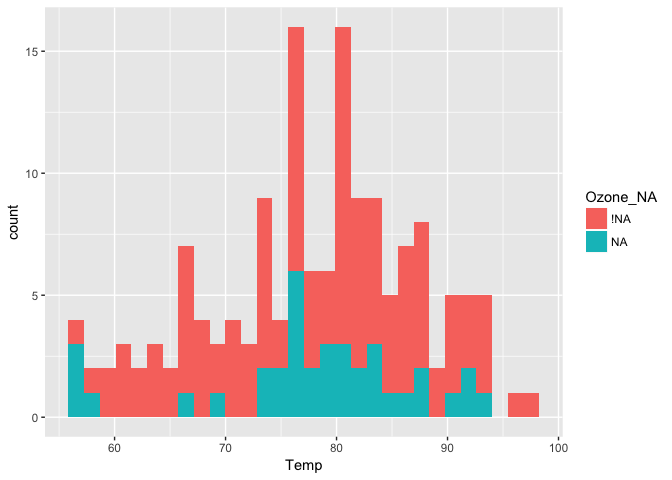
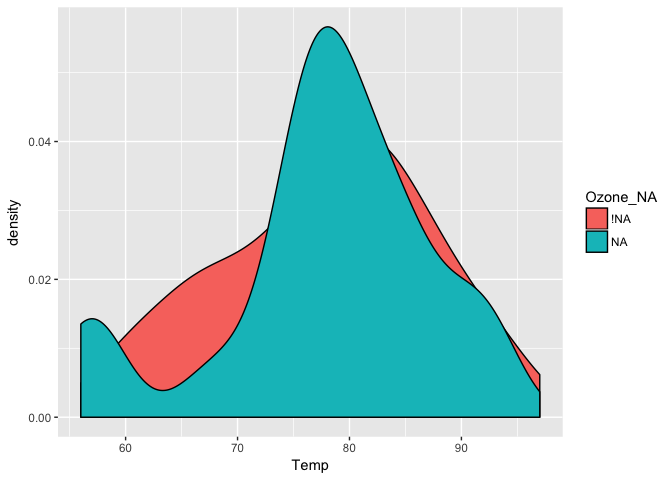
update README and pkgdown docs

diff --git a/docs/index.html b/docs/index.html
@@ -92,7 +92,7 @@
 <li>Visualisation methods: e.g., <code><a href="reference/geom_miss_point.html">geom_miss_point()</a></code>, <code><a href="reference/gg_miss_var.html">gg_miss_var()</a></code>,</li>
 </ul>
 <p>For more details on the workflow and theory underpinning naniar, read the vignette <a href="http://naniar.njtierney.com/articles/getting-started-w-naniar.html">“Getting started with naniar”</a>.</p>
-<p>For a short primer on the data visualisation techniques, read the vignette <a href="http://naniar.njtierney.com/articles/naniar-visualisation.html">Gallery of missing data visualisations using naniar</a>.</p>
+<p>For a short primer on the data visualisation available in naniar, read the vignette <a href="http://naniar.njtierney.com/articles/naniar-visualisation.html">Gallery of missing data visualisations using naniar</a>.</p>
 </div>
 <div id="installation" class="section level1">
 <h1 class="hasAnchor">
@@ -101,9 +101,9 @@
 <div class="sourceCode"><pre class="sourceCode r"><code class="sourceCode r"><span class="co"># install.packages("devtools")</span>
 devtools<span class="op">::</span><span class="kw"><a href="http://www.rdocumentation.org/packages/devtools/topics/install_github">install_github</a></span>(<span class="st">"njtierney/naniar"</span>)</code></pre></div>
 </div>
-<div id="visualisating-missing-data" class="section level1">
+<div id="a-short-overview-of-naniar" class="section level1">
 <h1 class="hasAnchor">
-<a href="#visualisating-missing-data" class="anchor"></a>Visualisating missing data?</h1>
+<a href="#a-short-overview-of-naniar" class="anchor"></a>A short overview of naniar</h1>
 <p>Visualising missing data might sound a little strange - how do you visualise something that is not there? One approach to visualising missing data comes from ggobi and manet, where we replace “NA” values with values 10% lower than the minimum value in that variable. This is provided with the <code><a href="reference/geom_miss_point.html">geom_miss_point()</a></code> ggplot2 geom, which we can illustrate by exploring the relationship between Ozone and Solar radiation from the airquality dataset.</p>
 <div class="sourceCode"><pre class="sourceCode r"><code class="sourceCode r">
 <span class="kw">library</span>(ggplot2)
@@ -172,8 +172,7 @@ airquality <span class="op">%&gt;%</span>
 <span class="st">  </span><span class="kw"><a href="reference/bind_shadow.html">bind_shadow</a></span>() <span class="op">%&gt;%</span>
 <span class="st">  </span><span class="kw"><a href="http://www.rdocumentation.org/packages/ggplot2/topics/ggplot">ggplot</a></span>(<span class="kw"><a href="http://www.rdocumentation.org/packages/ggplot2/topics/aes">aes</a></span>(<span class="dt">x =</span> Temp,
              <span class="dt">fill =</span> Ozone_NA)) <span class="op">+</span><span class="st"> </span>
-<span class="st">  </span><span class="kw"><a href="http://www.rdocumentation.org/packages/ggplot2/topics/geom_histogram">geom_histogram</a></span>()
-<span class="co">#&gt; `stat_bin()` using `bins = 30`. Pick better value with `binwidth`.</span></code></pre></div>
+<span class="st">  </span><span class="kw"><a href="http://www.rdocumentation.org/packages/ggplot2/topics/geom_density">geom_density</a></span>()</code></pre></div>
 <p><img src="README-figs/README-unnamed-chunk-3-1.png" width="672"></p>
 <p>And even visualise imputations</p>
 <div class="sourceCode"><pre class="sourceCode r"><code class="sourceCode r">
@@ -290,7 +289,7 @@ airquality <span class="op">%&gt;%</span>
 <div id="acknowledgements" class="section level2">
 <h2 class="hasAnchor">
 <a href="#acknowledgements" class="anchor"></a>Acknowledgements</h2>
-<p>Firstly, thanks to Di Cook for giving the initial inspiration for the package and laying down the rich theory and literature that the work in naniar is built upon. Naming credit (once again!) goes to Miles McBain. Among various other things, Miles also worked out how to overload the missing data and make it work as a geom. Thanks also to Colin Fay for helping me understand tidy evaluation and for features such as <code>replace_to_na</code>, <code>miss_*_cumsum</code>, and more.</p>
+<p>Firstly, thanks to <a href="https://github.com/dicook">Di Cook</a> for giving the initial inspiration for the package and laying down the rich theory and literature that the work in naniar is built upon. Naming credit (once again!) goes to <a href="https://github.com/milesmcbain">Miles McBain</a>. Among various other things, Miles also worked out how to overload the missing data and make it work as a geom. Thanks also to <a href="https://github.com/ColinFay">Colin Fay</a> for helping me understand tidy evaluation and for features such as <code>replace_to_na</code>, <code>miss_*_cumsum</code>, and more.</p>
 </div>
 <div id="a-note-on-the-name" class="section level2">
 <h2 class="hasAnchor">

diff --git a/docs/reference/gg_miss_span.html b/docs/reference/gg_miss_span.html
@@ -150,8 +150,8 @@ is used, which can be customised as normal for ggplot.</p>
 #&gt; 11           11      0       3000 0.0000000000     1.0000000
 #&gt; 12           12    745       2255 0.2483333333     0.7516667
 #&gt; 13           13    432       2568 0.1440000000     0.8560000</div><div class='input'><span class='fu'>library</span>(<span class='no'>ggplot2</span>)
-<span class='fu'>gg_miss_span</span>(<span class='no'>pedestrian</span>, <span class='no'>hourly_counts</span>, <span class='kw'>span_every</span> <span class='kw'>=</span> <span class='fl'>3000</span>)</div><div class='img'><img src='gg_miss_span-4.png' alt='' width='700' height='432.632880098887' /></div><div class='input'><span class='co'># works with the rest of ggplot</span>
-<span class='fu'>gg_miss_span</span>(<span class='no'>pedestrian</span>, <span class='no'>hourly_counts</span>, <span class='kw'>span_every</span> <span class='kw'>=</span> <span class='fl'>3000</span>) + <span class='fu'><a href='http://www.rdocumentation.org/packages/ggplot2/topics/labs'>labs</a></span>(<span class='kw'>x</span> <span class='kw'>=</span> <span class='st'>"custom"</span>)</div><div class='img'><img src='gg_miss_span-5.png' alt='' width='700' height='432.632880098887' /></div><div class='input'><span class='fu'>gg_miss_span</span>(<span class='no'>pedestrian</span>, <span class='no'>hourly_counts</span>, <span class='kw'>span_every</span> <span class='kw'>=</span> <span class='fl'>3000</span>) + <span class='fu'><a href='http://www.rdocumentation.org/packages/ggplot2/topics/ggtheme'>theme_dark</a></span>()</div><div class='img'><img src='gg_miss_span-6.png' alt='' width='700' height='432.632880098887' /></div></pre>
+<span class='fu'>gg_miss_span</span>(<span class='no'>pedestrian</span>, <span class='no'>hourly_counts</span>, <span class='kw'>span_every</span> <span class='kw'>=</span> <span class='fl'>3000</span>)</div><div class='img'><img src='gg_miss_span-1.png' alt='' width='700' height='432.632880098887' /></div><div class='input'><span class='co'># works with the rest of ggplot</span>
+<span class='fu'>gg_miss_span</span>(<span class='no'>pedestrian</span>, <span class='no'>hourly_counts</span>, <span class='kw'>span_every</span> <span class='kw'>=</span> <span class='fl'>3000</span>) + <span class='fu'><a href='http://www.rdocumentation.org/packages/ggplot2/topics/labs'>labs</a></span>(<span class='kw'>x</span> <span class='kw'>=</span> <span class='st'>"custom"</span>)</div><div class='img'><img src='gg_miss_span-2.png' alt='' width='700' height='432.632880098887' /></div><div class='input'><span class='fu'>gg_miss_span</span>(<span class='no'>pedestrian</span>, <span class='no'>hourly_counts</span>, <span class='kw'>span_every</span> <span class='kw'>=</span> <span class='fl'>3000</span>) + <span class='fu'><a href='http://www.rdocumentation.org/packages/ggplot2/topics/ggtheme'>theme_dark</a></span>()</div><div class='img'><img src='gg_miss_span-3.png' alt='' width='700' height='432.632880098887' /></div></pre>
   </div>
   <div class="col-md-3 hidden-xs hidden-sm" id="sidebar">
     <h2>Contents</h2>

diff --git a/docs/reference/miss_var_run.html b/docs/reference/miss_var_run.html
@@ -173,12 +173,12 @@ the length of the run, and whether that run describes a missing value.</p>
   <span class='fu'><a href='http://dplyr.tidyverse.org/reference/tally.html'>count</a></span>(<span class='no'>run_length</span>) <span class='kw'>%&gt;%</span>
   <span class='fu'><a href='http://www.rdocumentation.org/packages/ggplot2/topics/ggplot'>ggplot</a></span>(<span class='fu'><a href='http://www.rdocumentation.org/packages/ggplot2/topics/aes'>aes</a></span>(<span class='kw'>x</span> <span class='kw'>=</span> <span class='no'>run_length</span>,
              <span class='kw'>y</span> <span class='kw'>=</span> <span class='no'>n</span>)) +
-      <span class='fu'><a href='http://www.rdocumentation.org/packages/ggplot2/topics/geom_bar'>geom_col</a></span>()</div><div class='img'><img src='miss_var_run-3.png' alt='' width='700' height='432.632880098887' /></div><div class='input'>
+      <span class='fu'><a href='http://www.rdocumentation.org/packages/ggplot2/topics/geom_bar'>geom_col</a></span>()</div><div class='img'><img src='miss_var_run-1.png' alt='' width='700' height='432.632880098887' /></div><div class='input'>
 <span class='co'># look at the number of missing values and the run length of these.</span>
 <span class='fu'>miss_var_run</span>(<span class='no'>pedestrian</span>, <span class='no'>hourly_counts</span>) <span class='kw'>%&gt;%</span>
   <span class='fu'><a href='http://www.rdocumentation.org/packages/ggplot2/topics/ggplot'>ggplot</a></span>(<span class='fu'><a href='http://www.rdocumentation.org/packages/ggplot2/topics/aes'>aes</a></span>(<span class='kw'>x</span> <span class='kw'>=</span> <span class='no'>is_na</span>,
              <span class='kw'>y</span> <span class='kw'>=</span> <span class='no'>run_length</span>)) +
-      <span class='fu'><a href='http://www.rdocumentation.org/packages/ggplot2/topics/geom_boxplot'>geom_boxplot</a></span>()</div><div class='img'><img src='miss_var_run-4.png' alt='' width='700' height='432.632880098887' /></div><div class='input'>
+      <span class='fu'><a href='http://www.rdocumentation.org/packages/ggplot2/topics/geom_boxplot'>geom_boxplot</a></span>()</div><div class='img'><img src='miss_var_run-2.png' alt='' width='700' height='432.632880098887' /></div><div class='input'>
 <span class='co'># using group_by</span>
  <span class='no'>pedestrian</span> <span class='kw'>%&gt;%</span>
    <span class='fu'><a href='http://dplyr.tidyverse.org/reference/group_by.html'>group_by</a></span>(<span class='no'>month</span>) <span class='kw'>%&gt;%</span>

diff --git a/docs/reference/gg_miss_fct.html b/docs/reference/gg_miss_fct.html
@@ -129,8 +129,8 @@ theme is used, which can be customised as normal for ggplot.</p>
 
     <h2 class="hasAnchor" id="examples"><a class="anchor" href="#examples"></a>Examples</h2>
     <pre class="examples"><div class='input'>
-<span class='fu'>gg_miss_fct</span>(<span class='kw'>x</span> <span class='kw'>=</span> <span class='no'>riskfactors</span>, <span class='kw'>fct</span> <span class='kw'>=</span> <span class='no'>marital</span>)</div><div class='img'><img src='gg_miss_fct-3.png' alt='' width='700' height='432.632880098887' /></div><div class='input'><span class='fu'>library</span>(<span class='no'>ggplot2</span>)
-<span class='fu'>gg_miss_fct</span>(<span class='kw'>x</span> <span class='kw'>=</span> <span class='no'>riskfactors</span>, <span class='kw'>fct</span> <span class='kw'>=</span> <span class='no'>marital</span>) + <span class='fu'><a href='http://www.rdocumentation.org/packages/ggplot2/topics/labs'>labs</a></span>(<span class='kw'>title</span> <span class='kw'>=</span> <span class='st'>"NA in Risk Factors and Marital status"</span>)</div><div class='img'><img src='gg_miss_fct-4.png' alt='' width='700' height='432.632880098887' /></div><div class='input'>
+<span class='fu'>gg_miss_fct</span>(<span class='kw'>x</span> <span class='kw'>=</span> <span class='no'>riskfactors</span>, <span class='kw'>fct</span> <span class='kw'>=</span> <span class='no'>marital</span>)</div><div class='img'><img src='gg_miss_fct-1.png' alt='' width='700' height='432.632880098887' /></div><div class='input'><span class='fu'>library</span>(<span class='no'>ggplot2</span>)
+<span class='fu'>gg_miss_fct</span>(<span class='kw'>x</span> <span class='kw'>=</span> <span class='no'>riskfactors</span>, <span class='kw'>fct</span> <span class='kw'>=</span> <span class='no'>marital</span>) + <span class='fu'><a href='http://www.rdocumentation.org/packages/ggplot2/topics/labs'>labs</a></span>(<span class='kw'>title</span> <span class='kw'>=</span> <span class='st'>"NA in Risk Factors and Marital status"</span>)</div><div class='img'><img src='gg_miss_fct-2.png' alt='' width='700' height='432.632880098887' /></div><div class='input'>
 </div></pre>
   </div>
   <div class="col-md-3 hidden-xs hidden-sm" id="sidebar">

diff --git a/docs/reference/geom_miss_point.html b/docs/reference/geom_miss_point.html
@@ -185,12 +185,12 @@ same axis.</p>
 <span class='fu'><a href='http://www.rdocumentation.org/packages/ggplot2/topics/ggplot'>ggplot</a></span>(<span class='no'>airquality</span>,
        <span class='fu'><a href='http://www.rdocumentation.org/packages/ggplot2/topics/aes'>aes</a></span>(<span class='kw'>x</span> <span class='kw'>=</span> <span class='no'>Ozone</span>,
            <span class='kw'>y</span> <span class='kw'>=</span> <span class='no'>Solar.R</span>)) +
-<span class='fu'><a href='http://www.rdocumentation.org/packages/ggplot2/topics/geom_point'>geom_point</a></span>()</div><div class='output co'>#&gt; <span class='warning'>Warning: Removed 42 rows containing missing values (geom_point).</span></div><div class='img'><img src='geom_miss_point-3.png' alt='' width='700' height='432.632880098887' /></div><div class='input'>
+<span class='fu'><a href='http://www.rdocumentation.org/packages/ggplot2/topics/geom_point'>geom_point</a></span>()</div><div class='output co'>#&gt; <span class='warning'>Warning: Removed 42 rows containing missing values (geom_point).</span></div><div class='img'><img src='geom_miss_point-1.png' alt='' width='700' height='432.632880098887' /></div><div class='input'>
 <span class='co'># using  geom_miss_point()</span>
 <span class='fu'><a href='http://www.rdocumentation.org/packages/ggplot2/topics/ggplot'>ggplot</a></span>(<span class='no'>airquality</span>,
        <span class='fu'><a href='http://www.rdocumentation.org/packages/ggplot2/topics/aes'>aes</a></span>(<span class='kw'>x</span> <span class='kw'>=</span> <span class='no'>Ozone</span>,
            <span class='kw'>y</span> <span class='kw'>=</span> <span class='no'>Solar.R</span>)) +
- <span class='fu'>geom_miss_point</span>()</div><div class='img'><img src='geom_miss_point-4.png' alt='' width='700' height='432.632880098887' /></div><div class='input'>
+ <span class='fu'>geom_miss_point</span>()</div><div class='img'><img src='geom_miss_point-2.png' alt='' width='700' height='432.632880098887' /></div><div class='input'>
 </div></pre>
   </div>
   <div class="col-md-3 hidden-xs hidden-sm" id="sidebar">

diff --git a/docs/reference/gg_miss_case_cumsum.html b/docs/reference/gg_miss_case_cumsum.html
@@ -129,8 +129,8 @@ customised as normal for ggplot.</p>
 
     <h2 class="hasAnchor" id="examples"><a class="anchor" href="#examples"></a>Examples</h2>
     <pre class="examples"><div class='input'>
-<span class='fu'>gg_miss_case_cumsum</span>(<span class='no'>airquality</span>)</div><div class='img'><img src='gg_miss_case_cumsum-3.png' alt='' width='700' height='432.632880098887' /></div><div class='input'><span class='fu'>library</span>(<span class='no'>ggplot2</span>)
-<span class='fu'>gg_miss_case_cumsum</span>(<span class='no'>riskfactors</span>, <span class='kw'>breaks</span> <span class='kw'>=</span> <span class='fl'>50</span>) + <span class='fu'><a href='http://www.rdocumentation.org/packages/ggplot2/topics/ggtheme'>theme_bw</a></span>()</div><div class='img'><img src='gg_miss_case_cumsum-4.png' alt='' width='700' height='432.632880098887' /></div></pre>
+<span class='fu'>gg_miss_case_cumsum</span>(<span class='no'>airquality</span>)</div><div class='img'><img src='gg_miss_case_cumsum-1.png' alt='' width='700' height='432.632880098887' /></div><div class='input'><span class='fu'>library</span>(<span class='no'>ggplot2</span>)
+<span class='fu'>gg_miss_case_cumsum</span>(<span class='no'>riskfactors</span>, <span class='kw'>breaks</span> <span class='kw'>=</span> <span class='fl'>50</span>) + <span class='fu'><a href='http://www.rdocumentation.org/packages/ggplot2/topics/ggtheme'>theme_bw</a></span>()</div><div class='img'><img src='gg_miss_case_cumsum-2.png' alt='' width='700' height='432.632880098887' /></div></pre>
   </div>
   <div class="col-md-3 hidden-xs hidden-sm" id="sidebar">
     <h2>Contents</h2>

diff --git a/docs/reference/gg_miss_var.html b/docs/reference/gg_miss_var.html
@@ -126,8 +126,8 @@ customised as normal for ggplot.</p>
 
     <h2 class="hasAnchor" id="examples"><a class="anchor" href="#examples"></a>Examples</h2>
     <pre class="examples"><div class='input'>
-<span class='fu'>gg_miss_var</span>(<span class='no'>airquality</span>)</div><div class='img'><img src='gg_miss_var-3.png' alt='' width='700' height='432.632880098887' /></div><div class='input'><span class='fu'>library</span>(<span class='no'>ggplot2</span>)
-<span class='fu'>gg_miss_var</span>(<span class='no'>airquality</span>) + <span class='fu'><a href='http://www.rdocumentation.org/packages/ggplot2/topics/labs'>labs</a></span>(<span class='kw'>y</span> <span class='kw'>=</span> <span class='st'>"Look at all the missing ones"</span>)</div><div class='img'><img src='gg_miss_var-4.png' alt='' width='700' height='432.632880098887' /></div><div class='input'>
+<span class='fu'>gg_miss_var</span>(<span class='no'>airquality</span>)</div><div class='img'><img src='gg_miss_var-1.png' alt='' width='700' height='432.632880098887' /></div><div class='input'><span class='fu'>library</span>(<span class='no'>ggplot2</span>)
+<span class='fu'>gg_miss_var</span>(<span class='no'>airquality</span>) + <span class='fu'><a href='http://www.rdocumentation.org/packages/ggplot2/topics/labs'>labs</a></span>(<span class='kw'>y</span> <span class='kw'>=</span> <span class='st'>"Look at all the missing ones"</span>)</div><div class='img'><img src='gg_miss_var-2.png' alt='' width='700' height='432.632880098887' /></div><div class='input'>
 </div></pre>
   </div>
   <div class="col-md-3 hidden-xs hidden-sm" id="sidebar">

diff --git a/docs/reference/gg_miss_case.html b/docs/reference/gg_miss_case.html
@@ -125,8 +125,8 @@ can be customised as normal for ggplot.</p>
 
     <h2 class="hasAnchor" id="examples"><a class="anchor" href="#examples"></a>Examples</h2>
     <pre class="examples"><div class='input'>
-<span class='fu'>gg_miss_case</span>(<span class='no'>airquality</span>)</div><div class='img'><img src='gg_miss_case-3.png' alt='' width='700' height='432.632880098887' /></div><div class='input'><span class='fu'>library</span>(<span class='no'>ggplot2</span>)
-<span class='fu'>gg_miss_case</span>(<span class='no'>airquality</span>) + <span class='fu'><a href='http://www.rdocumentation.org/packages/ggplot2/topics/labs'>labs</a></span>(<span class='kw'>x</span> <span class='kw'>=</span> <span class='st'>"Number of Cases"</span>)</div><div class='img'><img src='gg_miss_case-4.png' alt='' width='700' height='432.632880098887' /></div><div class='input'>
+<span class='fu'>gg_miss_case</span>(<span class='no'>airquality</span>)</div><div class='img'><img src='gg_miss_case-1.png' alt='' width='700' height='432.632880098887' /></div><div class='input'><span class='fu'>library</span>(<span class='no'>ggplot2</span>)
+<span class='fu'>gg_miss_case</span>(<span class='no'>airquality</span>) + <span class='fu'><a href='http://www.rdocumentation.org/packages/ggplot2/topics/labs'>labs</a></span>(<span class='kw'>x</span> <span class='kw'>=</span> <span class='st'>"Number of Cases"</span>)</div><div class='img'><img src='gg_miss_case-2.png' alt='' width='700' height='432.632880098887' /></div><div class='input'>
 </div></pre>
   </div>
   <div class="col-md-3 hidden-xs hidden-sm" id="sidebar">

diff --git a/docs/reference/bind_shadow.html b/docs/reference/bind_shadow.html
@@ -135,7 +135,7 @@ missing data.</p>
        <span class='fu'><a href='http://www.rdocumentation.org/packages/ggplot2/topics/aes'>aes</a></span>(<span class='kw'>x</span> <span class='kw'>=</span> <span class='no'>Ozone</span>)) +
        <span class='fu'><a href='http://www.rdocumentation.org/packages/ggplot2/topics/geom_histogram'>geom_histogram</a></span>() +
        <span class='fu'><a href='http://www.rdocumentation.org/packages/ggplot2/topics/facet_wrap'>facet_wrap</a></span>(~<span class='no'>Solar.R_NA</span>,
-       <span class='kw'>ncol</span> <span class='kw'>=</span> <span class='fl'>1</span>)</div><div class='output co'>#&gt; <span class='message'>`stat_bin()` using `bins = 30`. Pick better value with `binwidth`.</span></div><div class='output co'>#&gt; <span class='warning'>Warning: Removed 37 rows containing non-finite values (stat_bin).</span></div><div class='img'><img src='bind_shadow-2.png' alt='' width='700' height='432.632880098887' /></div><div class='input'>
+       <span class='kw'>ncol</span> <span class='kw'>=</span> <span class='fl'>1</span>)</div><div class='output co'>#&gt; <span class='message'>`stat_bin()` using `bins = 30`. Pick better value with `binwidth`.</span></div><div class='output co'>#&gt; <span class='warning'>Warning: Removed 37 rows containing non-finite values (stat_bin).</span></div><div class='img'><img src='bind_shadow-1.png' alt='' width='700' height='432.632880098887' /></div><div class='input'>
 </div></pre>
   </div>
   <div class="col-md-3 hidden-xs hidden-sm" id="sidebar">

diff --git a/docs/reference/cast_shadow_shift_label.html b/docs/reference/cast_shadow_shift_label.html
@@ -155,6 +155,16 @@ respect the dplyr verbs "starts_with", "contains", "ends_with", etc.</p></td>
 #&gt;  9     8      19      !NA        !NA     8.00000      19.00000 Not Missing
 #&gt; 10    NA     194       NA        !NA   -18.51277     194.00000     Missing
 #&gt; # ... with 143 more rows</div><div class='input'>
+<span class='co'># replicate the plot generated by geom_miss_point()</span>
+
+<span class='fu'>library</span>(<span class='no'>ggplot2</span>)
+
+<span class='no'>airquality</span> <span class='kw'>%&gt;%</span>
+  <span class='fu'>cast_shadow_shift_label</span>(<span class='no'>Ozone</span>,<span class='no'>Solar.R</span>) <span class='kw'>%&gt;%</span>
+  <span class='fu'><a href='http://www.rdocumentation.org/packages/ggplot2/topics/ggplot'>ggplot</a></span>(<span class='fu'><a href='http://www.rdocumentation.org/packages/ggplot2/topics/aes'>aes</a></span>(<span class='kw'>x</span> <span class='kw'>=</span> <span class='no'>Ozone_shift</span>,
+             <span class='kw'>y</span> <span class='kw'>=</span> <span class='no'>Solar.R_shift</span>,
+             <span class='kw'>colour</span> <span class='kw'>=</span> <span class='no'>any_missing</span>)) +
+        <span class='fu'><a href='http://www.rdocumentation.org/packages/ggplot2/topics/geom_point'>geom_point</a></span>()</div><div class='img'><img src='cast_shadow_shift_label-1.png' alt='' width='700' height='432.632880098887' /></div><div class='input'>
 </div></pre>
   </div>
   <div class="col-md-3 hidden-xs hidden-sm" id="sidebar">

diff --git a/docs/reference/cast_shadow.html b/docs/reference/cast_shadow.html
@@ -106,8 +106,10 @@
 "data <!-- %&gt;% select(var) %&gt;% shadow_shift()". This is a convenience function -->
 that makes it easy to perform certain visualisations, in line with the
 principle that the user should have a way to flexibly return dataformats
-containing information about the missing data. It also respects the dplyr
-verbs <code>starts_with</code>, <code>contains</code>, <code>ends_with</code>, etc.</p>
+containing information about the missing data. It forms the base building
+block for the functions <code>cast_shadow_shift</code>, and <code>cast_shadow_shift_label</code>.
+It also respects the dplyr verbs <code>starts_with</code>, <code>contains</code>, <code>ends_with</code>, etc.
+to select variables.</p>
     
 
     <pre class="usage"><span class='fu'>cast_shadow</span>(<span class='no'>data</span>, <span class='no'>...</span>)</pre>
@@ -121,7 +123,7 @@ verbs <code>starts_with</code>, <code>contains</code>, <code>ends_with</code>, e
     </tr>
     <tr>
       <th>...</th>
-      <td><p>One or more unquoted expressions separated by commas. These
+      <td><p>One or more unquoted variable names separated by commas. These
 respect the dplyr verbs <code>starts_with</code>, <code>contains</code>, <code>ends_with</code>, etc.</p></td>
     </tr>
     </table>

diff --git a/docs/reference/add_prop_miss.html b/docs/reference/add_prop_miss.html
@@ -206,7 +206,7 @@ has not been used on all of the variables.</p></td>
 <span class='fu'><a href='http://www.rdocumentation.org/packages/rpart/topics/rpart'>rpart</a></span>(<span class='no'>prop_miss_all</span> ~ <span class='no'>.</span>, <span class='kw'>data</span> <span class='kw'>=</span> <span class='no'>.</span>) <span class='kw'>%&gt;%</span>
 <span class='fu'><a href='http://www.rdocumentation.org/packages/rpart.plot/topics/prp'>prp</a></span>(<span class='kw'>type</span> <span class='kw'>=</span> <span class='fl'>4</span>,
     <span class='kw'>extra</span> <span class='kw'>=</span> <span class='fl'>101</span>,
-    <span class='kw'>prefix</span> <span class='kw'>=</span> <span class='st'>"prop_miss = "</span>)</div><div class='img'><img src='add_prop_miss-2.png' alt='' width='700' height='432.632880098887' /></div></pre>
+    <span class='kw'>prefix</span> <span class='kw'>=</span> <span class='st'>"prop_miss = "</span>)</div><div class='img'><img src='add_prop_miss-1.png' alt='' width='700' height='432.632880098887' /></div></pre>
   </div>
   <div class="col-md-3 hidden-xs hidden-sm" id="sidebar">
     <h2>Contents</h2>
